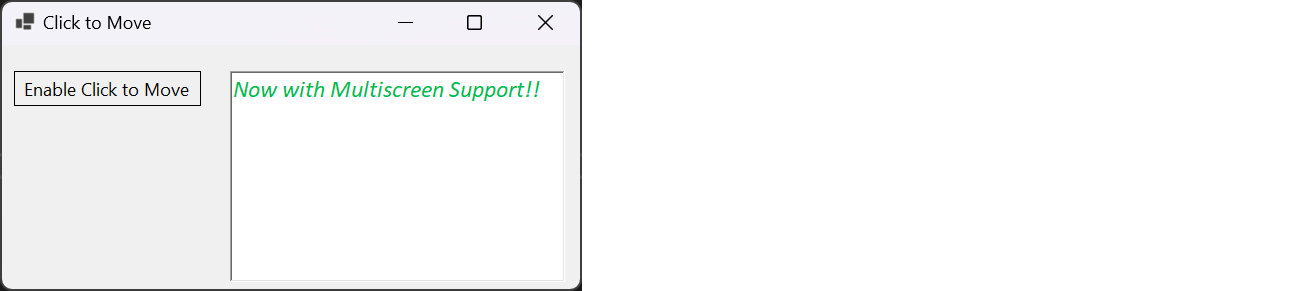
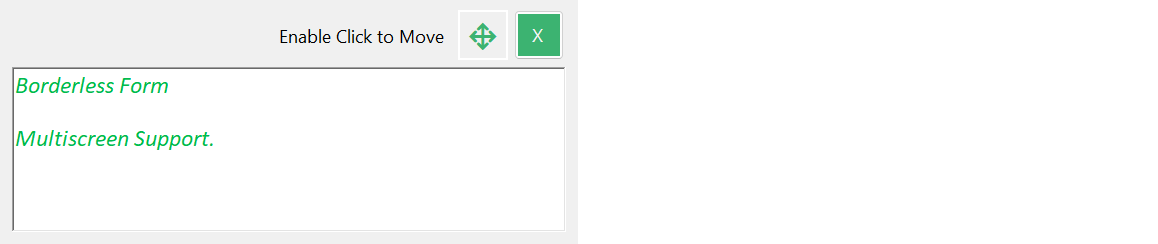
borderless++

Changed region(s): [[0.0, 0.0, 0.4974, 0.9467], [0.0, 0.9754, 0.4663, 1.0], [0.1554, 0.918, 0.4974, 0.9467]]

diff --git a/move-with-mouse-click/MainForm.cs b/move-with-mouse-click/MainForm.cs
@@ -29,9 +29,9 @@ namespace move_with_mouse_click
             // Unhook when this `Form` disposes.
             Disposed += (sender, e) => UnhookWindowsHookEx(_hook);
 
-            // A little hack to keep window on top while Click-to-Move is enabled.
             checkBoxEnableCTM.CheckedChanged += (sender, e) =>
             {
+                // A little hack to keep window on top while Click-to-Move is enabled.
                 TopMost = checkBoxEnableCTM.Checked;
                 checkBoxEnableCTM.ForeColor =
                     checkBoxEnableCTM.Checked ? 

diff --git a/move-with-mouse-click/MainForm.Designer.cs b/move-with-mouse-click/MainForm.Designer.cs
@@ -71,7 +71,7 @@
             // label1
             // 
             this.label1.AutoSize = true;
-            this.label1.Location = new System.Drawing.Point(237, 26);
+            this.label1.Location = new System.Drawing.Point(274, 23);
             this.label1.Name = "label1";
             this.label1.Size = new System.Drawing.Size(177, 25);
             this.label1.TabIndex = 3;

diff --git a/README.md b/README.md
@@ -1,4 +1,4 @@
-As I understand it, the desired behavior is to enable the "Click to Move" (one way or another) and then click anywhere on a multiscreen surface and have the form follow the mouse to the new position. One solution that seems to work in my brief testing is to pinvoke the [SetWindowsHookEx](http://pinvoke.net/default.aspx/user32/SetWindowsHookEx.html) to install a global low level hook for [WH_MOUSE_LL](https://learn.microsoft.com/en-us/windows/win32/winmsg/about-hooks#wh_mouse_ll) in order to intercept `WM_LBUTTONDOWN`.
+As I understand it, the desired behavior is to enable the "Click to Move" (one way or another) and then click anywhere on a multiscreen surface and have the borderless form follow the mouse to the new position. One solution that seems to work in my brief testing is to pinvoke the WinApi [SetWindowsHookEx](http://pinvoke.net/default.aspx/user32/SetWindowsHookEx.html) to install a global low level hook for [WH_MOUSE_LL](https://learn.microsoft.com/en-us/windows/win32/winmsg/about-hooks#wh_mouse_ll) in order to intercept `WM_LBUTTONDOWN`.
 
 **This answer has been modified in order to track updates to the question.*
 ***
@@ -31,7 +31,7 @@ As I understand it, the desired behavior is to enable the "Click to Move" (one w
                 TopMost = checkBoxEnableCTM.Checked;
             };
 
-            // Will need to offset the title NC area for the move.
+            // Compensate move offset with/without the title NC area.
             var offset = RectangleToScreen(ClientRectangle);
             CLIENT_RECT_OFFSET = offset.Y - Location.Y;
         }
@@ -84,15 +84,15 @@ As I understand it, the desired behavior is to enable the "Click to Move" (one w
 
             // Allow the pending mouse messages to pump. 
             await Task.Delay(TimeSpan.FromMilliseconds(1));
-            Location = offsetToNow;
+            WindowState = FormWindowState.Normal; // JIC window happens to be maximized.
+            Location = offsetToNow;            
         }
         checkBoxEnableCTM.Checked = false; // Turn off after each move.
     }
 
 In the code I used to test this answer, it seemed intuitive to center the button where the click takes place (this offset is easy to change if it doesn't suit you). Here's the result of the multiscreen test:
 
-
-[![Form][1]][1]
+[![borderless form][1]][1]
 
 [![multiscreen][2]][2]
 
@@ -120,5 +120,5 @@ In the code I used to test this answer, it seemed intuitive to center the button
     #endregion P I N V O K E
 
 
-  [1]: https://i.stack.imgur.com/tLFqX.png
+  [1]: https://i.stack.imgur.com/pWptE.png
   [2]: https://i.stack.imgur.com/8I2wy.jpg
